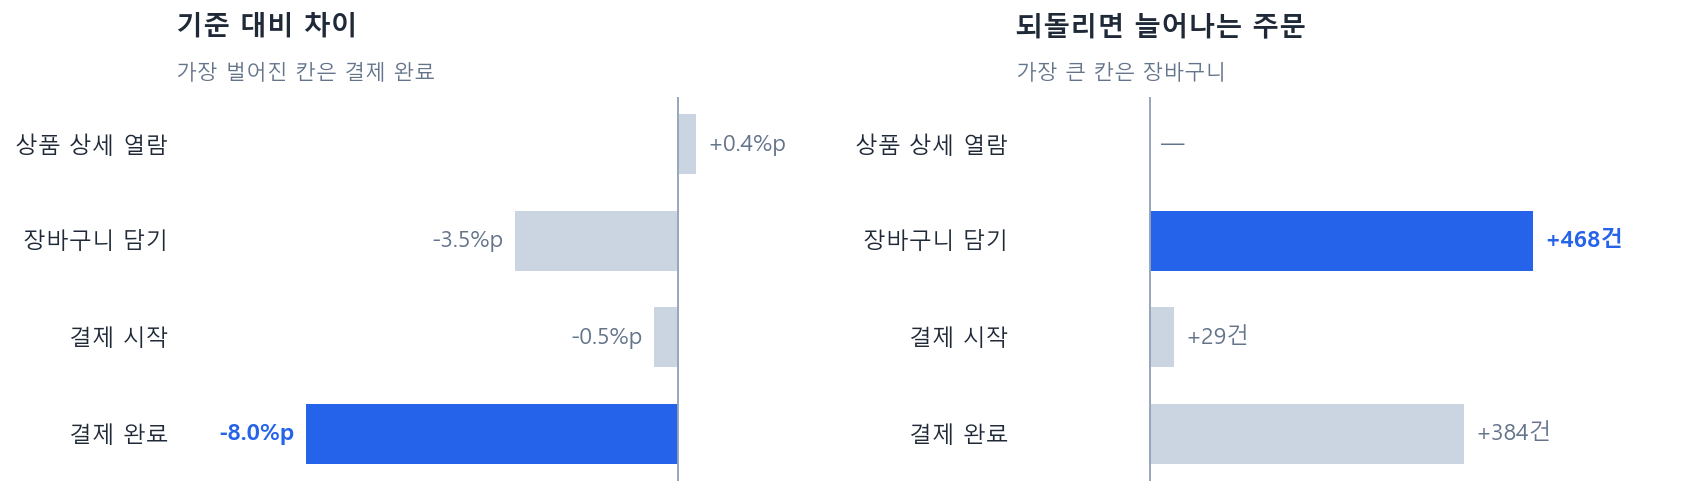
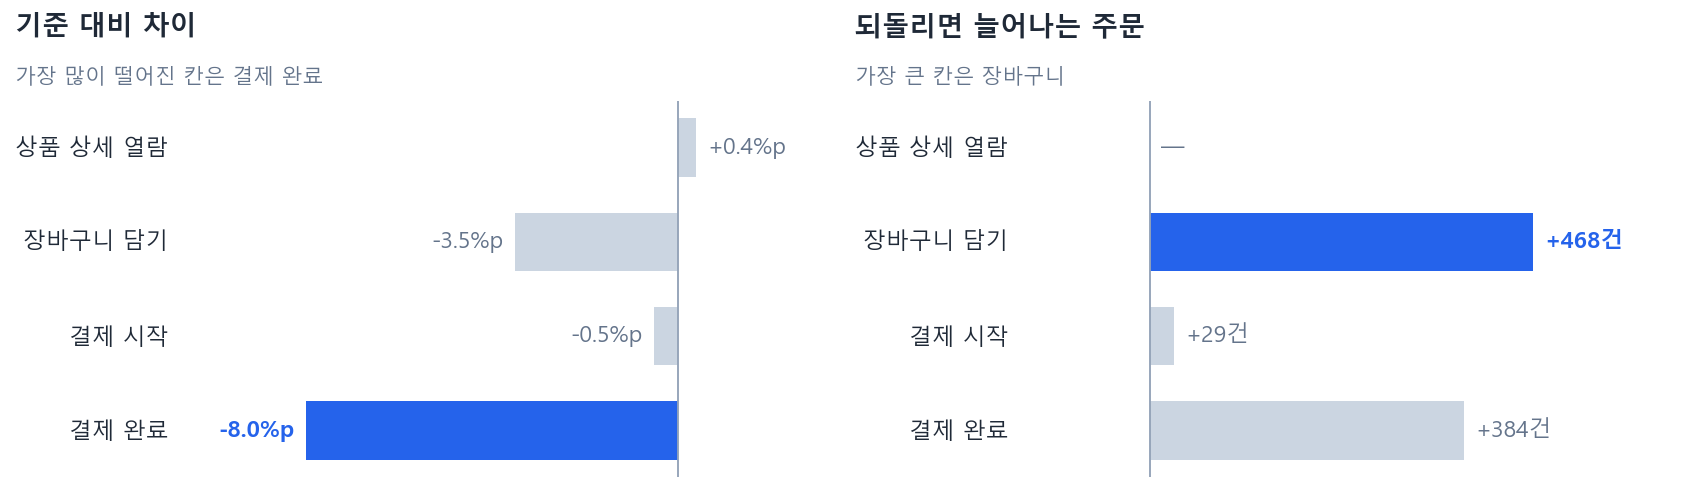
글 10 - 대표님 손질본 반영(문장 잇기 · '벌어진' → '떨어진'). 그림 제목 · 설명을 항목 이름 왼쪽 끝에 맞춤

diff --git a/blog/where-to-fix-the-funnel-first.html b/blog/where-to-fix-the-funnel-first.html
@@ -13,9 +13,9 @@
 </script>
 <meta name="viewport" content="width=device-width, initial-scale=1">
 <title>퍼널에서 어디부터 고쳐야 하나 — 루위즈</title>
-<meta name="description" content="지난 글에서 퍼널을 그려 보았습니다. 그려 놓고 나면 눈에 띄는 칸이 하나 있습니다. 전환율이 유독 낮은 칸입니다. 대개 그 칸부터 손을 댑니다. 그런데 거기가 범인인 경우는 생각보다 드뭅니다.">
+<meta name="description" content="지난 글에서 퍼널을 그려 보았는데, 그려 놓고 나면 유독 눈에 띄는 칸이 하나 있습니다. 전환율이 가장 낮은 칸입니다. 대개는 그 칸부터 손을 대지만, 정작 거기가 범인인 경우는 생각보다 드뭅니다.">
 <meta property="og:title" content="퍼널에서 어디부터 고쳐야 하나">
-<meta property="og:description" content="지난 글에서 퍼널을 그려 보았습니다. 그려 놓고 나면 눈에 띄는 칸이 하나 있습니다. 전환율이 유독 낮은 칸입니다. 대개 그 칸부터 손을 댑니다. 그런데 거기가 범인인 경우는 생각보다 드뭅니다.">
+<meta property="og:description" content="지난 글에서 퍼널을 그려 보았는데, 그려 놓고 나면 유독 눈에 띄는 칸이 하나 있습니다. 전환율이 가장 낮은 칸입니다. 대개는 그 칸부터 손을 대지만, 정작 거기가 범인인 경우는 생각보다 드뭅니다.">
 <meta property="og:type" content="article">
 <link rel="canonical" href="https://luwiz.co.kr/blog/where-to-fix-the-funnel-first.html">
 <link rel="icon" href="/logo.png">
@@ -28,38 +28,38 @@
   <article>
     <h1>퍼널에서 어디부터 고쳐야 하나</h1>
     <p class="date">숫자로 보는 사업 · 2026-10-16</p>
-<p>지난 글에서 퍼널을 그려 보았습니다. 그려 놓고 나면 눈에 띄는 칸이 하나 있습니다. 전환율이 유독 낮은 칸입니다. 대개 그 칸부터 손을 댑니다. 그런데 거기가 범인인 경우는 생각보다 드뭅니다.</p>
-<p>지난 글과 같은 D2C 브랜드의 한 달치입니다. 열을 몇 개 더 붙였습니다.</p>
+<p>지난 글에서 퍼널을 그려 보았는데, 그려 놓고 나면 유독 눈에 띄는 칸이 하나 있습니다. 전환율이 가장 낮은 칸입니다. 대개는 그 칸부터 손을 대지만, 정작 거기가 범인인 경우는 생각보다 드뭅니다.</p>
+<p>아래는 지난 글과 같은 D2C 브랜드의 한 달치 숫자에 열을 몇 개 더 붙인 표입니다.</p>
 <table><tr><th>단계</th><th>사람</th><th>전환율</th><th>지난 6개월</th><th>차이</th><th>되돌리면</th></tr><tr><td>사이트 방문</td><td>120,000</td><td>—</td><td>—</td><td>—</td><td>—</td></tr><tr><td>상품 상세 열람</td><td>26,400</td><td>22.0%</td><td>21.6%</td><td>+0.4%p</td><td>—</td></tr><tr><td>장바구니 담기</td><td>7,392</td><td>28.0%</td><td>31.5%</td><td>−3.5%p</td><td>+468건</td></tr><tr><td>결제 시작</td><td>4,805</td><td>65.0%</td><td>65.5%</td><td>−0.5%p</td><td>+29건</td></tr><tr><td>결제 완료</td><td>3,748</td><td>78.0%</td><td>86.0%</td><td>−8.0%p</td><td>+384건</td></tr></table>
-<p>이 표를 왼쪽부터 오른쪽으로 읽으면 손댈 칸이 세 번 바뀝니다. 세 번 다 다른 답이 나옵니다.</p>
+<p>이 표를 왼쪽부터 오른쪽으로 읽어 나가면 손댈 칸이 세 번 바뀌고, 그때마다 다른 답이 나옵니다.</p>
 <h2>가장 낮은 칸은 원래 낮습니다</h2>
-<p>전환율만 보면 <b>상품 상세 열람 22.0%</b>가 제일 낮습니다. 열 명이 들어와 여덟 명이 상품도 안 보고 나갑니다. 당장 여기를 고쳐야 할 것 같습니다.</p>
-<p>그런데 이 칸은 어느 쇼핑몰이나 낮습니다. 사람들은 사러 오는 것이 아니라 구경하러 오기 때문입니다. 광고를 눌러 들어온 사람, 검색하다 잘못 들어온 사람, 가격만 보고 나가는 사람이 전부 이 칸에서 빠집니다. <b>전환율이 낮다는 것은 문제가 아니라 그 단계의 성질입니다.</b></p>
-<p>그래서 칸끼리 비교하는 것은 의미가 없습니다. 22.0%와 78.0%를 나란히 놓고 어느 쪽이 나쁘냐고 묻는 것은 처음부터 답이 없는 질문입니다. 비교할 것은 다른 칸이 아니라 <b>지난 우리 자신</b>입니다. 이 달 22.0%는 지난 6개월 21.6%보다 오히려 좋습니다. 여기는 아무 문제가 없습니다.</p>
+<p>전환율만 보면 <b>상품 상세 열람 22.0%</b>가 가장 낮습니다. 열 명이 들어와 여덟 명이 상품도 보지 않고 나가는 셈이니, 당장 여기부터 고쳐야 할 것처럼 보입니다.</p>
+<p>그런데 이 칸은 어느 쇼핑몰이나 낮습니다. 사람들은 사러 오는 것이 아니라 구경하러 오기 때문에, 광고를 눌러 들어온 사람, 검색하다 잘못 들어온 사람, 가격만 보고 나가는 사람이 모두 이 칸에서 빠집니다. <b>전환율이 낮다는 것은 문제가 아니라 그 단계의 성질입니다.</b></p>
+<p>그래서 칸끼리 견주는 것은 의미가 없습니다. 22.0%와 78.0%를 나란히 놓고 어느 쪽이 나쁘냐고 묻는 것은 처음부터 답이 없는 질문이고, 견줄 상대는 다른 칸이 아니라 <b>지난날의 우리 자신</b>입니다. 이번 달 22.0%는 지난 6개월 21.6%보다 오히려 좋으니, 여기는 아무 문제가 없습니다.</p>
 <h2>기준은 밖이 아니라 안에서 가져옵니다</h2>
-<p>비교 기준을 업계 평균에서 찾으려 하면 대개 실패합니다. 업종이 다르고 가격대가 다르고 유입 경로가 다르면 그 숫자는 우리에게 쓸 수가 없습니다. 10만 원짜리를 파는 곳과 2천 원짜리를 파는 곳의 장바구니 전환율이 같을 리가 없습니다.</p>
-<p>가장 쓸 만한 기준은 <b>우리의 지난 6개월</b>입니다. 그리고 평균이 아니라 <b>중위값</b>을 씁니다. 지난 6개월 중에 큰 프로모션을 한 달이 하나 섞여 있으면 평균이 통째로 끌려 올라가서, 평범한 달이 전부 &#x27;나쁜 달&#x27;로 보이기 때문입니다.</p>
-<h2>가장 많이 벌어진 칸도 답이 아닙니다</h2>
-<p>기준과 비교하면 그림이 달라집니다. <b>결제 완료가 −8.0%p</b>로 가장 크게 벌어졌습니다. 평소에는 결제를 시작한 사람의 86%가 끝까지 갔는데 이번 달은 78%만 갔습니다. 결제창에 문제가 생겼거나, 결제 수단 하나가 자주 실패하고 있을 가능성이 큽니다.</p>
-<p>여기가 답일까요. 아직 아닙니다. <b>그 칸에 들어온 사람이 몇 명인지를 같이 봐야 합니다.</b> 결제 완료 칸에는 4,805명이 들어옵니다. 장바구니 칸에는 26,400명이 들어옵니다. 다섯 배 넘게 차이가 납니다.</p>
+<p>비교 기준을 업계 평균에서 찾으려 하면 대개 실패합니다. 업종과 가격대와 유입 경로가 다르면 그 숫자는 우리에게 쓸모가 없고, 10만 원짜리를 파는 곳과 2천 원짜리를 파는 곳의 장바구니 전환율이 같을 리도 없습니다.</p>
+<p>가장 쓸 만한 기준은 <b>우리의 과거</b>입니다.</p>
+<h2>가장 많이 떨어진 칸도 답이 아닙니다</h2>
+<p>기준과 견주면 그림이 달라져서, 이번에는 <b>결제 완료가 −8.0%p</b>로 가장 크게 떨어졌습니다. 평소에는 결제를 시작한 사람의 86%가 끝까지 갔는데 이번 달은 78%만 갔으니, 결제창에 문제가 생겼거나 결제 수단 하나가 자주 실패하고 있을 가능성이 큽니다.</p>
+<p>그렇다면 여기가 답일까요. 아직은 아닙니다. <b>그 칸에 들어온 사람이 몇 명인지를 함께 봐야 하기 때문입니다.</b> 결제 완료 칸에는 4,805명이 들어오고 장바구니 칸에는 26,400명이 들어오니, 다섯 배 넘게 차이가 납니다.</p>
 <p>위쪽 칸의 1%p와 아래쪽 칸의 1%p는 같은 1%p가 아닙니다.</p>
-<h2>되돌리면 몇 건이 늘어나는가</h2>
-<p>그래서 마지막으로 한 번 더 뒤집어 봅니다. 각 칸을 기준값으로 되돌렸을 때 <b>최종 주문이 몇 건 늘어나는지</b>로 줄을 세웁니다. 계산은 간단합니다.</p>
-<pre>늘어나는 주문 = 들어온 사람 × 벌어진 %p × 아래 칸 전환율</pre>
-<p>장바구니 칸은 26,400명에 3.5%p를 곱하고, 그 아래 결제 시작 65%와 결제 완료 78%를 곱합니다. 결제 완료 칸은 4,805명에 8.0%p를 곱하면 끝입니다. 아래에 곱할 칸이 없기 때문입니다.</p>
+<h2>몇 건이 늘어나는가</h2>
+<p>그래서 마지막으로 한 번 더 뒤집어, 각 칸을 기준값으로 되돌렸을 때 <b>최종 주문이 몇 건 늘어나는지</b>로 줄을 세워 봅니다. 계산은 간단합니다.</p>
+<pre>늘어나는 주문 = 들어온 사람 × 떨어진 %p × 아래 칸 전환율</pre>
+<p>장바구니 칸은 26,400명에 3.5%p를 곱한 뒤 그 아래 결제 시작 65%와 결제 완료 78%를 다시 곱합니다. 결제 완료 칸은 아래에 곱할 칸이 없으니 4,805명에 8.0%p를 곱하면 끝입니다.</p>
 <figure><img src="/blog/img/funnel-gap.png" alt="기준 대비 차이와 되돌렸을 때 늘어나는 주문"><figcaption>기준 대비 차이와 되돌렸을 때 늘어나는 주문</figcaption></figure>
-<p>왼쪽에서 1등이던 칸이 오른쪽에서는 2등이 됩니다. <b>장바구니 468건, 결제 완료 384건</b>입니다. 객단가가 68,000원이라면 각각 월 3,182만 원과 2,611만 원입니다. 결제 시작은 29건, 197만 원이라 지금 손댈 자리가 아닙니다.</p>
-<p>둘 다 할 수 있으면 둘 다 하면 됩니다. 다만 사람이 한 주에 한 가지만 바꿀 수 있다면 <b>장바구니부터</b>입니다. 그리고 바꾼 다음에는 그 칸만 다시 재서 정말 올라갔는지 확인합니다.</p>
+<p>그러면 왼쪽에서 1등이던 칸이 오른쪽에서는 2등으로 내려가, <b>장바구니 468건, 결제 완료 384건</b>이 됩니다. 객단가가 68,000원이라면 각각 월 3,182만 원과 2,611만 원이고, 결제 시작은 29건, 197만 원이라 지금 손댈 자리가 아닙니다.</p>
+<p>둘 다 할 수 있다면 둘 다 하면 됩니다. 다만 한 주에 한 가지만 바꿀 수 있다면 <b>장바구니부터</b> 손대고, 바꾼 다음에는 그 칸만 다시 재서 정말 올라갔는지 확인합니다.</p>
 <h2>표를 그리기 전에 정할 것 하나</h2>
-<p>여기까지가 읽는 법이고, 그리는 법에서 가장 많이 틀리는 자리는 <b>분모</b>입니다.</p>
-<p>사이트 방문 12만은 사람 수일까요, 세션 수일까요. 한 사람이 사흘에 걸쳐 세 번 들어와서 마지막에 샀다면 방문은 3이고 구매는 1입니다. 전환율은 3분의 1로 떨어집니다. 같은 사람을 1로 세면 전환율은 세 배가 됩니다.</p>
-<p>둘 다 쓸 수 있습니다. 광고 효율을 볼 때는 세션이 맞고, 고객을 볼 때는 사람이 맞습니다. <b>다만 한 표 안에서 섞으면 안 됩니다.</b> 위쪽 두 칸은 웹 분석 도구에서 세션으로 가져오고 아래쪽 세 칸은 주문 데이터에서 사람으로 가져오는 일이 자주 생깁니다. 그러면 중간 어딘가에서 전환율이 저절로 좋아지고, 그 좋아진 칸을 보고 &#x27;여기는 괜찮네&#x27; 하고 지나가게 됩니다.</p>
+<p>여기까지가 읽는 법이라면, 그리는 법에서 가장 많이 틀리는 자리는 <b>분모</b>입니다.</p>
+<p>사이트 방문 12만은 사람 수일까요, 세션 수일까요. 한 사람이 사흘에 걸쳐 세 번 들어와 마지막에 샀다면 방문은 3이고 구매는 1이어서 전환율이 3분의 1로 떨어지고, 같은 사람을 1로 세면 전환율은 세 배가 됩니다.</p>
+<p>둘 다 쓸 수 있습니다. 광고 효율을 볼 때는 세션이, 고객을 볼 때는 사람이 맞습니다. <b>다만 한 표 안에서 섞으면 안 됩니다.</b> 위쪽 두 칸은 웹 분석 도구에서 세션으로, 아래쪽 세 칸은 주문 데이터에서 사람으로 가져오는 일이 자주 생기는데, 그러면 중간 어딘가에서 전환율이 저절로 좋아지고 그 좋아진 칸을 보며 &#x27;여기는 괜찮네&#x27; 하고 지나가게 됩니다.</p>
 <h2>퍼널은 한 줄이 아닙니다</h2>
-<p>마지막으로, 위의 표는 모든 방문자를 한 줄에 합친 것입니다. 실제로는 여러 퍼널이 겹쳐 있습니다.</p>
-<p>광고를 눌러 들어온 사람과 검색해서 들어온 사람은 애초에 다른 사람들입니다. 모바일과 PC도 다르고, 처음 온 사람과 다시 온 사람도 다릅니다. 합쳐 놓으면 한쪽이 나빠진 것을 다른 쪽이 가려 줍니다. 전체 전환율은 그대로인데 실제로는 광고 유입이 무너지고 재방문이 그만큼 받쳐 주고 있는 상황이, 합친 표에서는 &#x27;변화 없음&#x27;으로 보입니다.</p>
-<p>가장 먼저 갈라 볼 축은 셋입니다. <b>유입 경로 · 기기 · 신규와 재방문.</b> 셋으로 갈라 보면 대개 한 칸에서 답이 나옵니다. 그 다음에 비로소 무엇을 바꿀지가 정해집니다.</p>
+<p>마지막으로, 위의 표는 모든 방문자를 한 줄에 합친 것이지만 실제로는 여러 퍼널이 겹쳐 있습니다.</p>
+<p>광고를 눌러 들어온 사람과 검색해서 들어온 사람은 애초에 다른 사람들이고, 모바일과 PC도, 처음 온 사람과 다시 온 사람도 다릅니다. 이것들을 합쳐 놓으면 한쪽이 나빠진 것을 다른 쪽이 가려 줍니다. 실제로는 광고 유입이 무너지고 재방문이 그만큼 받쳐 주고 있어도, 전체 전환율이 그대로라면 합친 표에서는 &#x27;변화 없음&#x27;으로 보일 뿐입니다.</p>
+<p>가장 먼저 갈라 볼 축은 <b>유입 경로 · 기기 · 신규와 재방문</b>, 이 셋입니다. 셋으로 갈라 보면 대개 한 칸에서 답이 나오고, 그다음에야 비로소 무엇을 바꿀지가 정해집니다.</p>
 <h2>마치며</h2>
-<p>퍼널은 그리는 것보다 읽는 것이 어렵습니다. 전환율이 가장 낮은 칸, 기준에서 가장 많이 떨어진 칸, 고쳤을 때 가장 많이 돌아오는 칸이 서로 다른 칸이기 때문입니다. 그리고 그 셋을 가르려면 결국 <b>방문부터 결제까지가 한곳에 모여 있어야</b> 합니다.</p>
+<p>퍼널은 그리는 것보다 읽는 것이 어렵습니다. 전환율이 가장 낮은 칸, 기준에서 가장 많이 떨어진 칸, 고쳤을 때 가장 많이 돌아오는 칸이 저마다 다른 칸이기 때문이고, 그 셋을 가려내려면 결국 <b>방문부터 결제까지가 한곳에 모여 있어야</b> 합니다.</p>
 <p>루위즈는 흩어진 자료를 한곳에 모으고 이런 표를 자동으로 그려 주는 도구를 만들고 있습니다.</p>
   </article>
   <hr>

diff --git a/charts.py b/charts.py
@@ -33,7 +33,8 @@ def bars(ax, names, vals, fmt, title, note):
     top = max(range(len(vals)), key=lambda i: abs(vals[i]))
     ax.barh(names, vals, color=[HOT if i == top else GREY for i in range(len(vals))],
             height=.62, zorder=3)
-    ax.set_title(title, fontsize=13, color=INK, pad=30, loc="left", fontweight="bold")
+    ax.text(0, 1.16, title, transform=ax.transAxes, fontsize=13, color=INK, fontweight="bold",
+            va="bottom", ha="left", gid="head")
     ax.invert_yaxis()
     ax.axvline(0, color="#94a3b8", lw=.9, zorder=4)
     for s in ("top", "right", "left", "bottom"):
@@ -48,7 +49,19 @@ def bars(ax, names, vals, fmt, title, note):
                 fontweight="bold" if i == top else "normal")
     ax.set_xlim(min(0, min(vals)) - span * .35, max(0, max(vals)) + span * .35)
     ax.text(0, 1.035, note, transform=ax.transAxes, fontsize=10, color="#64748b",
-            va="bottom", ha="left")
+            va="bottom", ha="left", gid="head")
+
+
+def heads_left(fig, axes):
+    """제목 · 한 줄 설명을 막대가 아니라 **항목 이름의 왼쪽 끝**에 맞춘다(2026-10-16 대표님: 「그림의 제목은 왼쪽으로」)."""
+    fig.canvas.draw()
+    r = fig.canvas.get_renderer()
+    for ax in axes:
+        x0 = min(t.get_window_extent(r).x0 for t in ax.get_yticklabels() if t.get_text())
+        x = ax.transAxes.inverted().transform((x0, 0))[0]
+        for t in ax.texts:
+            if t.get_gid() == "head":
+                t.set_x(x)
 
 
 def funnel_gap():
@@ -58,10 +71,11 @@ def funnel_gap():
     lift = [0, 468, 29, 384]                 # 되돌렸을 때 늘어나는 주문(건)
     fig, (a, b) = plt.subplots(1, 2, figsize=(11.4, 3.5), dpi=150)
     bars(a, names, gap, lambda v: "%+.1f%%p" % v,
-         "기준 대비 차이", "가장 벌어진 칸은 결제 완료")
+         "기준 대비 차이", "가장 많이 떨어진 칸은 결제 완료")
     bars(b, names, lift, lambda v: "—" if v == 0 else "+%s건" % format(int(v), ","),
          "되돌리면 늘어나는 주문", "가장 큰 칸은 장바구니")
     fig.tight_layout(pad=1.4)
+    heads_left(fig, (a, b))
     p = os.path.join(OUT, "funnel-gap.png")
     fig.savefig(p, bbox_inches="tight", facecolor="white")
     plt.close(fig)
